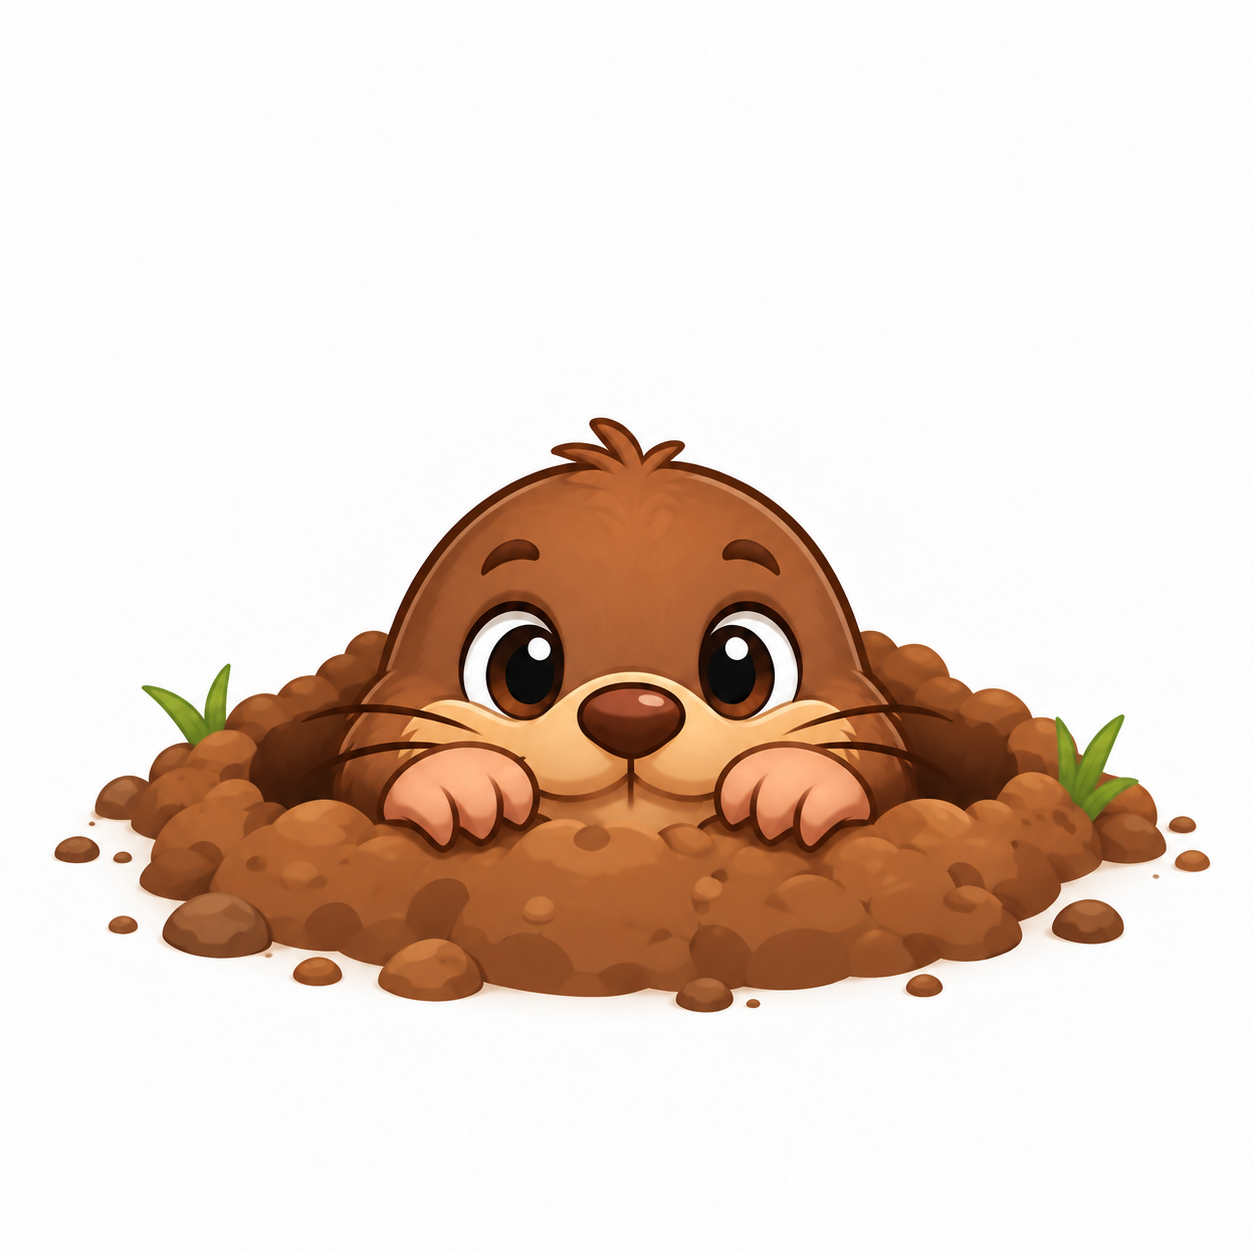
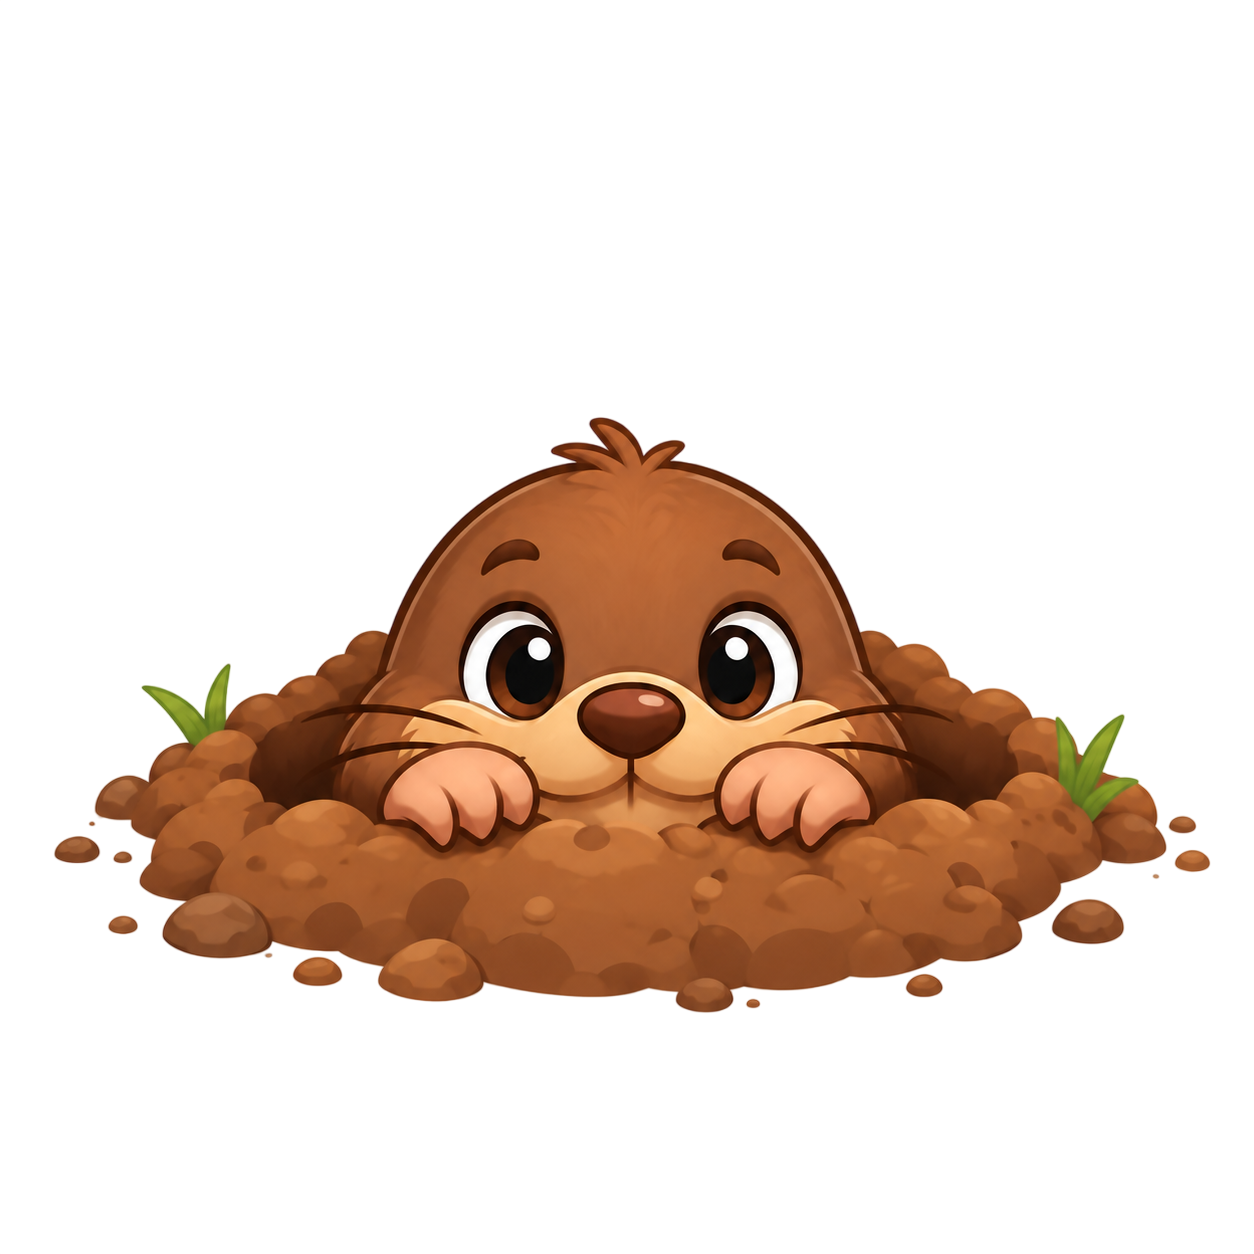
여러 수정 사항
- 두더지 이미지 수정됨 (배경 투명화)
- 타격감 위해 카메라 쉐이크 추가 됨
- 두더지 벨런스 수정 (체력 추가 됨)

diff --git a/Assets/WhackAMole/Scripts/GameManager.cs b/Assets/WhackAMole/Scripts/GameManager.cs
@@ -1,5 +1,6 @@
 using System;
 using System.Collections;
+using UnityEditor.Rendering.LookDev;
 using UnityEngine;
 
 namespace WhackAMole
@@ -56,13 +57,44 @@ namespace WhackAMole
             if (Remaining <= 0) EndGame();
             else Changed?.Invoke();
         }
+
         public void Attempt(Mole target)
+        {
+            if (!IsPlaying || Remaining <= 0) return;
+
+            // 두더지가 지상에 있고 타격 가능한 상태일 때
+            if (target && target.State == MoleState.Up)
+            {
+                // 타격 성공 시 매번 카메라 흔들기 실행 (기본값: 0.15초 동안 0.2 세기로)
+                if (CameraShake.Instance != null)
+                {
+                    CameraShake.Instance.Shake(0.15f, 0.2f);
+                }
+
+                // 체력 깎기 실행 (이전 답변 코드 참고)
+                bool isDead = target.TryHit();
+
+                // 점수 및 타격 횟수 증가
+                Hits++;
+                Score += rules.pointsPerHit;
+            }
+            else
+            {
+                // 허공을 쳤거나 이미 들어가는 두더지를 친 경우
+                Misses++;
+            }
+            Changed?.Invoke();
+        }
+
+        /*public void Attempt(Mole target)
         {
             if (!IsPlaying || Remaining <= 0) return;
             if (target && target.TryHit()) { Hits++; Score += rules.pointsPerHit; }
             else Misses++;
             Changed?.Invoke();
-        }
+        }*/
+
+
         public void EndGame()
         {
             if (!IsPlaying) return;
